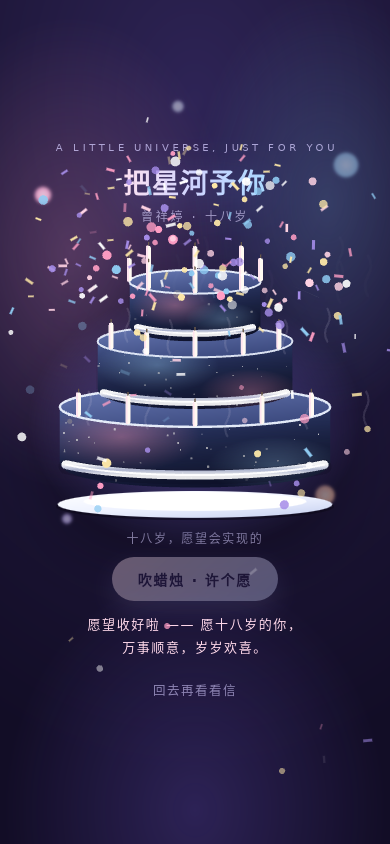
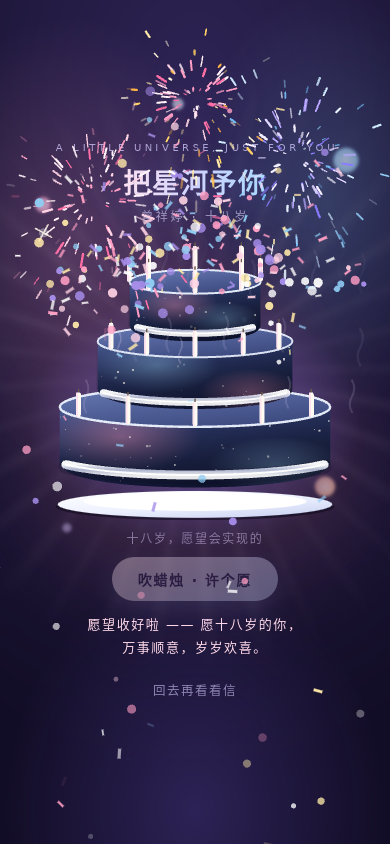
标题改致十八岁的你；第三句换新文案；蛋糕页加烟花/星芒/光芒

diff --git a/index.html b/index.html
@@ -236,6 +236,15 @@
   .nb3{width:10px;height:10px;left:16%;top:62%;background:radial-gradient(circle,#efe6ff,#b8a6ff 62%,transparent 72%);animation:floaty 10s ease-in-out infinite .6s}
   .nb4{width:20px;height:20px;right:14%;top:58%;background:radial-gradient(circle,#ffe7d4,#ffb98a 62%,transparent 72%);animation:floaty 14s ease-in-out infinite 2s}
   .nb5{width:12px;height:12px;left:44%;top:12%;background:radial-gradient(circle,#ffffff,#cfe4ff 62%,transparent 72%);animation:floaty 11s ease-in-out infinite 1.6s}
+  .rays{position:absolute;left:50%;top:44%;width:min(160vw,760px);aspect-ratio:1;transform:translate(-50%,-50%);
+    background:repeating-conic-gradient(from 0deg at 50% 50%,rgba(255,235,246,.20) 0deg 2.2deg,rgba(255,255,255,0) 2.2deg 11deg);
+    filter:blur(3px);mix-blend-mode:screen;opacity:.38;pointer-events:none;
+    -webkit-mask-image:radial-gradient(circle,#000 0%,rgba(0,0,0,.65) 42%,transparent 68%);
+    mask-image:radial-gradient(circle,#000 0%,rgba(0,0,0,.65) 42%,transparent 68%);
+    animation:raysSpin 46s linear infinite}
+  @keyframes raysSpin{to{transform:translate(-50%,-50%) rotate(360deg)}}
+  #cakeScene .cake-wrap{animation:cakeGlow 4.6s ease-in-out infinite}
+  @keyframes cakeGlow{0%,100%{filter:drop-shadow(0 18px 30px rgba(120,90,255,.22))}50%{filter:drop-shadow(0 18px 42px rgba(255,150,210,.38))}}
   .shoot{position:absolute;width:110px;height:1.5px;border-radius:2px;pointer-events:none;
     background:linear-gradient(90deg,transparent,rgba(255,255,255,.9));opacity:0;transform:rotate(24deg)}
   .shoot.s1{left:6%;top:18%;animation:shoot 7s ease-in infinite 1.5s}
@@ -330,10 +339,10 @@
 
       <section class="letter-card" id="letterCard" aria-live="polite">
         <p class="card__tag">读 到 这 里</p>
-        <p class="card__title">十八岁，生日快乐</p>
+        <p class="card__title">致十八岁的你</p>
         <p class="card__line">祝<em>亭亭玉立</em>的祥婷大美女生日快乐。</p>
         <p class="card__line">十八岁往后的日子，想做的事都做成，想见的人都在身边。</p>
-        <p class="card__line">难过的时候别硬扛，<em>我一直都在</em>。</p>
+        <p class="card__line">新的一岁，愿你不必紧绷，<em>自在发光</em>，所有期待慢慢都有回音，生日快乐。</p>
         <p class="card__sign">—— 补上的生日 · 蛋小黑代送</p>
         <div class="card-bar">
           <button class="mini" id="replay" type="button">再看一遍</button>
@@ -348,6 +357,7 @@
 
   <!-- ========== 三 · 星空蛋糕 ========== -->
   <section class="layer" id="cakeScene" aria-label="许愿蛋糕">
+    <span class="rays" aria-hidden="true"></span>
     <span class="shoot s1" aria-hidden="true"></span>
     <span class="shoot s2" aria-hidden="true"></span>
     <span class="night-bokeh nb1" aria-hidden="true"></span>
@@ -466,6 +476,13 @@
   var W = 0, H = 0, DPR = 1;
   var petals = [], sparks = [], burst = [];
   var bokeh = [], bubbles = [], night = 0, nightTarget = 0;
+  var fwP = [], twinkles = [], embers = [];
+  var PAL = [
+    ["#ff9ec4", "#ffd3e4", "#ff6fa5", "#fff1f7"],
+    ["#ffe9a8", "#ffd166", "#fff6d8", "#ffb347"],
+    ["#8fcbf2", "#cfe9ff", "#6fb6ee", "#eaf6ff"],
+    ["#b8a6ff", "#e0d6ff", "#8b7bff", "#f3eeff"]
+  ];
   var BOKEH_COLORS = ["255,183,209", "169,216,245", "207,192,255", "255,233,168", "255,255,255"];
   var t0 = performance.now();
   var PETAL_COLORS = [
@@ -539,6 +556,29 @@
       });
     }
   }
+  function firework(x, y, n, power) {
+    var pal = PAL[(Math.random() * PAL.length) | 0];
+    for (var i = 0; i < n; i++) {
+      var a = Math.random() * 6.283, sp = rand(50, 250) * (power || 1);
+      fwP.push({
+        x: x, y: y, px: x, py: y,
+        vx: Math.cos(a) * sp, vy: Math.sin(a) * sp - 30,
+        life: rand(.7, 1.5), c: pal[(Math.random() * pal.length) | 0], r: rand(1.1, 2.4)
+      });
+    }
+  }
+  function twinkle(x, y) {
+    twinkles.push({ x: x, y: y, r: rand(5, 13), life: rand(.5, 1.1), total: 1.1, rot: rand(0, 1.5) });
+  }
+  function goldRain(x, y, n) {
+    for (var i = 0; i < n; i++) {
+      embers.push({
+        x: x + rand(-90, 90), y: y + rand(-20, 20),
+        vx: rand(-18, 18), vy: rand(-70, -20),
+        r: rand(1, 2.6), life: rand(1.4, 3), c: Math.random() > .5 ? "255,233,168" : "255,209,102"
+      });
+    }
+  }
   function drawBubble(b) {
     var k = Math.max(0, Math.min(1, b.life / .9));
     ctx.save();
@@ -603,6 +643,56 @@
       }
       drawPetal(p);
     }
+    if (night > .05 && !reduce) {
+      if (Math.random() < dt * .9) {
+        firework(rand(W * .12, W * .88), rand(H * .10, H * .42), 34, .9);
+      }
+      if (Math.random() < dt * 2.2) twinkle(rand(0, W), rand(H * .08, H * .55));
+    }
+
+    for (var fi = fwP.length - 1; fi >= 0; fi--) {
+      var f = fwP[fi];
+      f.px = f.x; f.py = f.y;
+      f.vy += 130 * dt; f.vx *= (1 - .9 * dt); f.vy *= (1 - .35 * dt);
+      f.x += f.vx * dt; f.y += f.vy * dt; f.life -= dt;
+      if (f.life <= 0) { fwP.splice(fi, 1); continue; }
+      ctxTop.save();
+      ctxTop.globalAlpha = Math.min(1, f.life * 1.3);
+      ctxTop.strokeStyle = f.c; ctxTop.lineWidth = f.r; ctxTop.lineCap = "round";
+      ctxTop.beginPath(); ctxTop.moveTo(f.px, f.py); ctxTop.lineTo(f.x, f.y); ctxTop.stroke();
+      ctxTop.restore();
+    }
+
+    for (var ti = twinkles.length - 1; ti >= 0; ti--) {
+      var tw = twinkles[ti];
+      tw.life -= dt;
+      if (tw.life <= 0) { twinkles.splice(ti, 1); continue; }
+      var ta = Math.sin((1 - tw.life / tw.total) * Math.PI);
+      ctxTop.save();
+      ctxTop.globalAlpha = ta * .9;
+      ctxTop.strokeStyle = "#fff8e6"; ctxTop.lineWidth = 1.6; ctxTop.lineCap = "round";
+      ctxTop.translate(tw.x, tw.y); ctxTop.rotate(tw.rot);
+      var R = tw.r * (0.6 + .4 * ta);
+      ctxTop.beginPath();
+      ctxTop.moveTo(-R, 0); ctxTop.lineTo(R, 0);
+      ctxTop.moveTo(0, -R); ctxTop.lineTo(0, R);
+      ctxTop.stroke();
+      ctxTop.globalAlpha = ta * .35;
+      ctxTop.beginPath(); ctxTop.arc(0, 0, R * .5, 0, 6.283); ctxTop.fillStyle = "#fff"; ctxTop.fill();
+      ctxTop.restore();
+    }
+
+    for (var ei = embers.length - 1; ei >= 0; ei--) {
+      var em = embers[ei];
+      em.x += em.vx * dt; em.y += em.vy * dt; em.vy -= 12 * dt; em.life -= dt;
+      if (em.life <= 0) { embers.splice(ei, 1); continue; }
+      ctx.save();
+      ctx.globalAlpha = Math.min(1, em.life * .7);
+      ctx.fillStyle = "rgba(" + em.c + ",.95)";
+      ctx.beginPath(); ctx.arc(em.x, em.y, em.r, 0, 6.283); ctx.fill();
+      ctx.restore();
+    }
+
     for (var bb = bubbles.length - 1; bb >= 0; bb--) {
       var bu = bubbles[bb];
       bu.vy -= 26 * dt; bu.vx *= (1 - .6 * dt);
@@ -904,6 +994,10 @@
       var r = $("cake").getBoundingClientRect();
       confetti(r.left + r.width / 2, r.top + r.height * .18, reduce ? 16 : 80);
       bubbleBurst(r.left + r.width / 2, r.top + r.height * .18, reduce ? 18 : 90, 1.25);
+      firework(W * .24, H * .24, reduce ? 20 : 66, 1.15);
+      firework(W * .76, H * .19, reduce ? 20 : 66, 1.1);
+      setTimeout(function () { firework(W * .5, H * .12, reduce ? 18 : 58, 1); }, 320);
+      goldRain(r.left + r.width / 2, r.top + r.height * .32, reduce ? 16 : 70);
       setTimeout(function () {
         confetti(r.left + r.width * .2, r.top + r.height * .26, reduce ? 10 : 34);
         confetti(r.left + r.width * .8, r.top + r.height * .24, reduce ? 10 : 34);
@@ -934,6 +1028,10 @@
       var r = c.getBoundingClientRect();
       confetti(r.left + r.width / 2, r.top + r.height * .2, reduce ? 10 : 36);
       bubbleBurst(r.left + r.width / 2, r.top + r.height * .2, reduce ? 16 : 64, 1);
+      firework(W * .28, H * .26, reduce ? 20 : 60, 1.1);
+      setTimeout(function () { firework(W * .74, H * .2, reduce ? 18 : 56, 1.05); }, 420);
+      setTimeout(function () { firework(W * .5, H * .13, reduce ? 18 : 52, .95); }, 820);
+      goldRain(r.left + r.width / 2, r.top + r.height * .3, reduce ? 12 : 40);
     }, 260);
     setTimeout(function () {
       var r = c.getBoundingClientRect();
